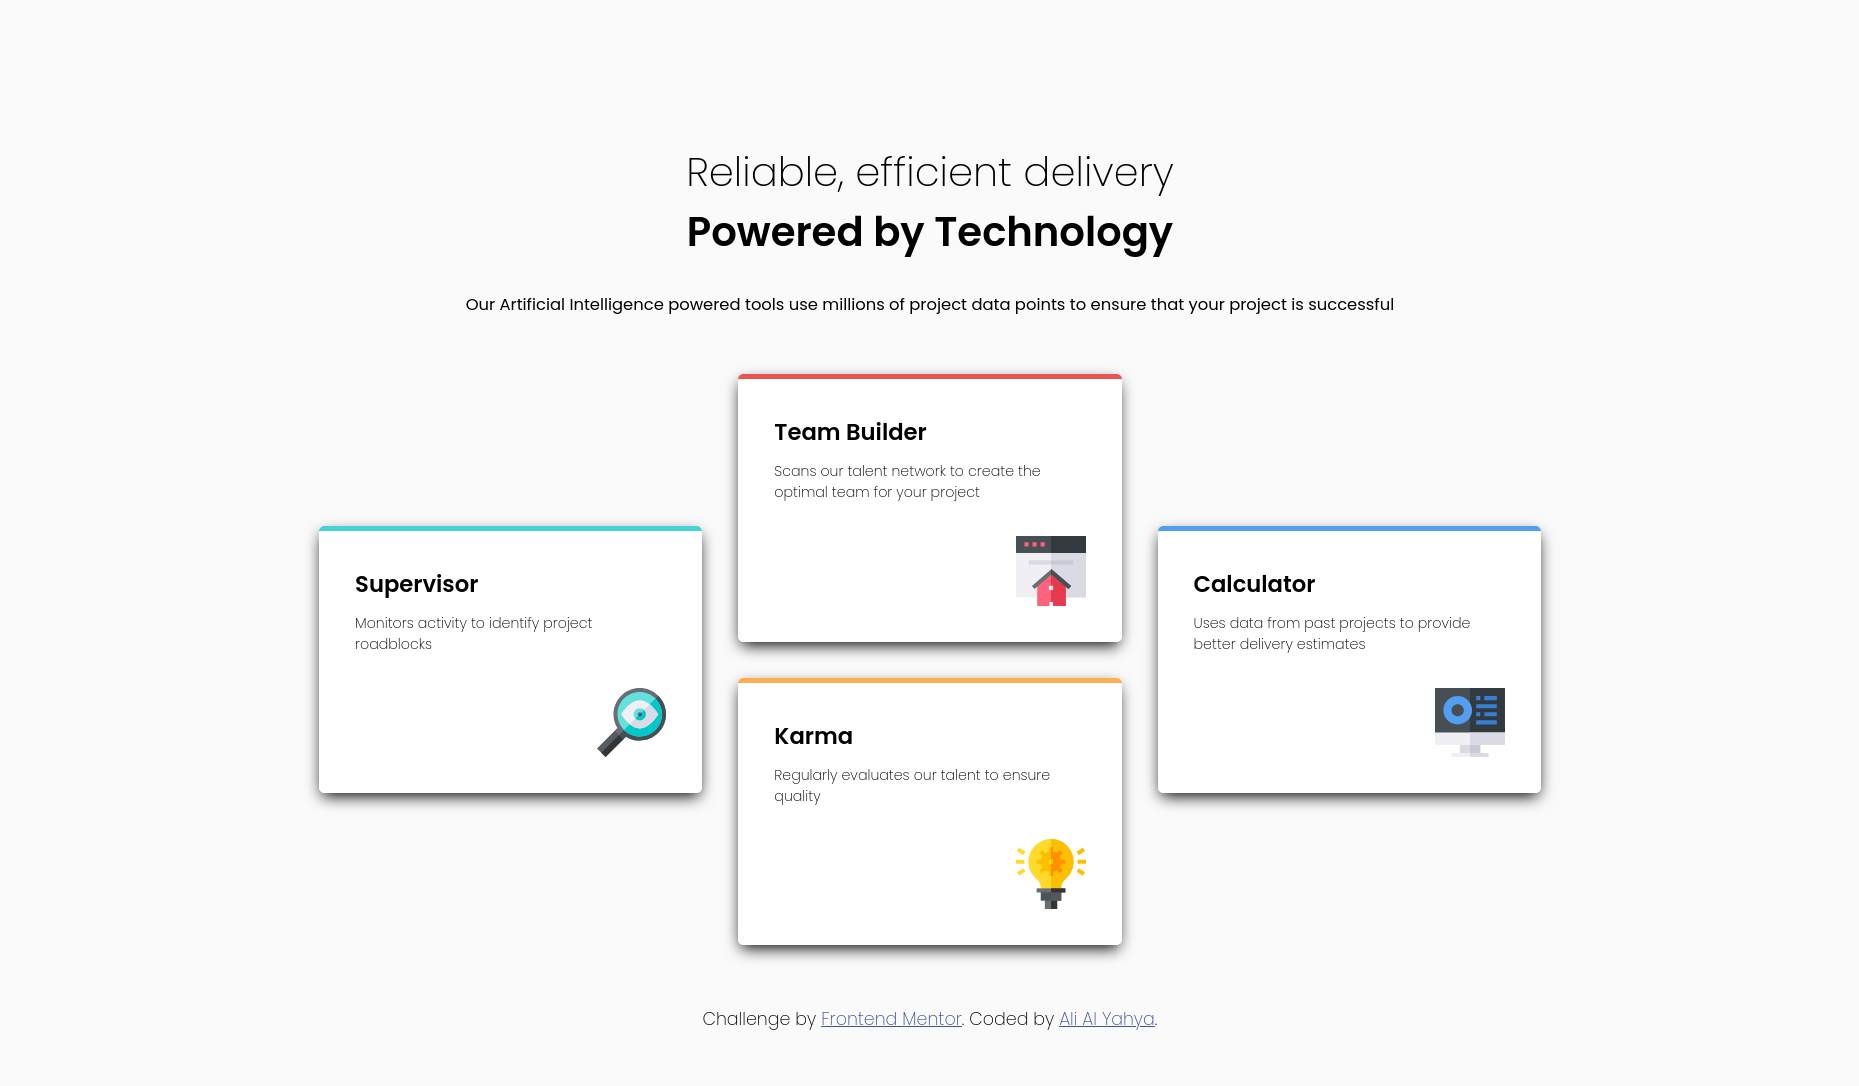
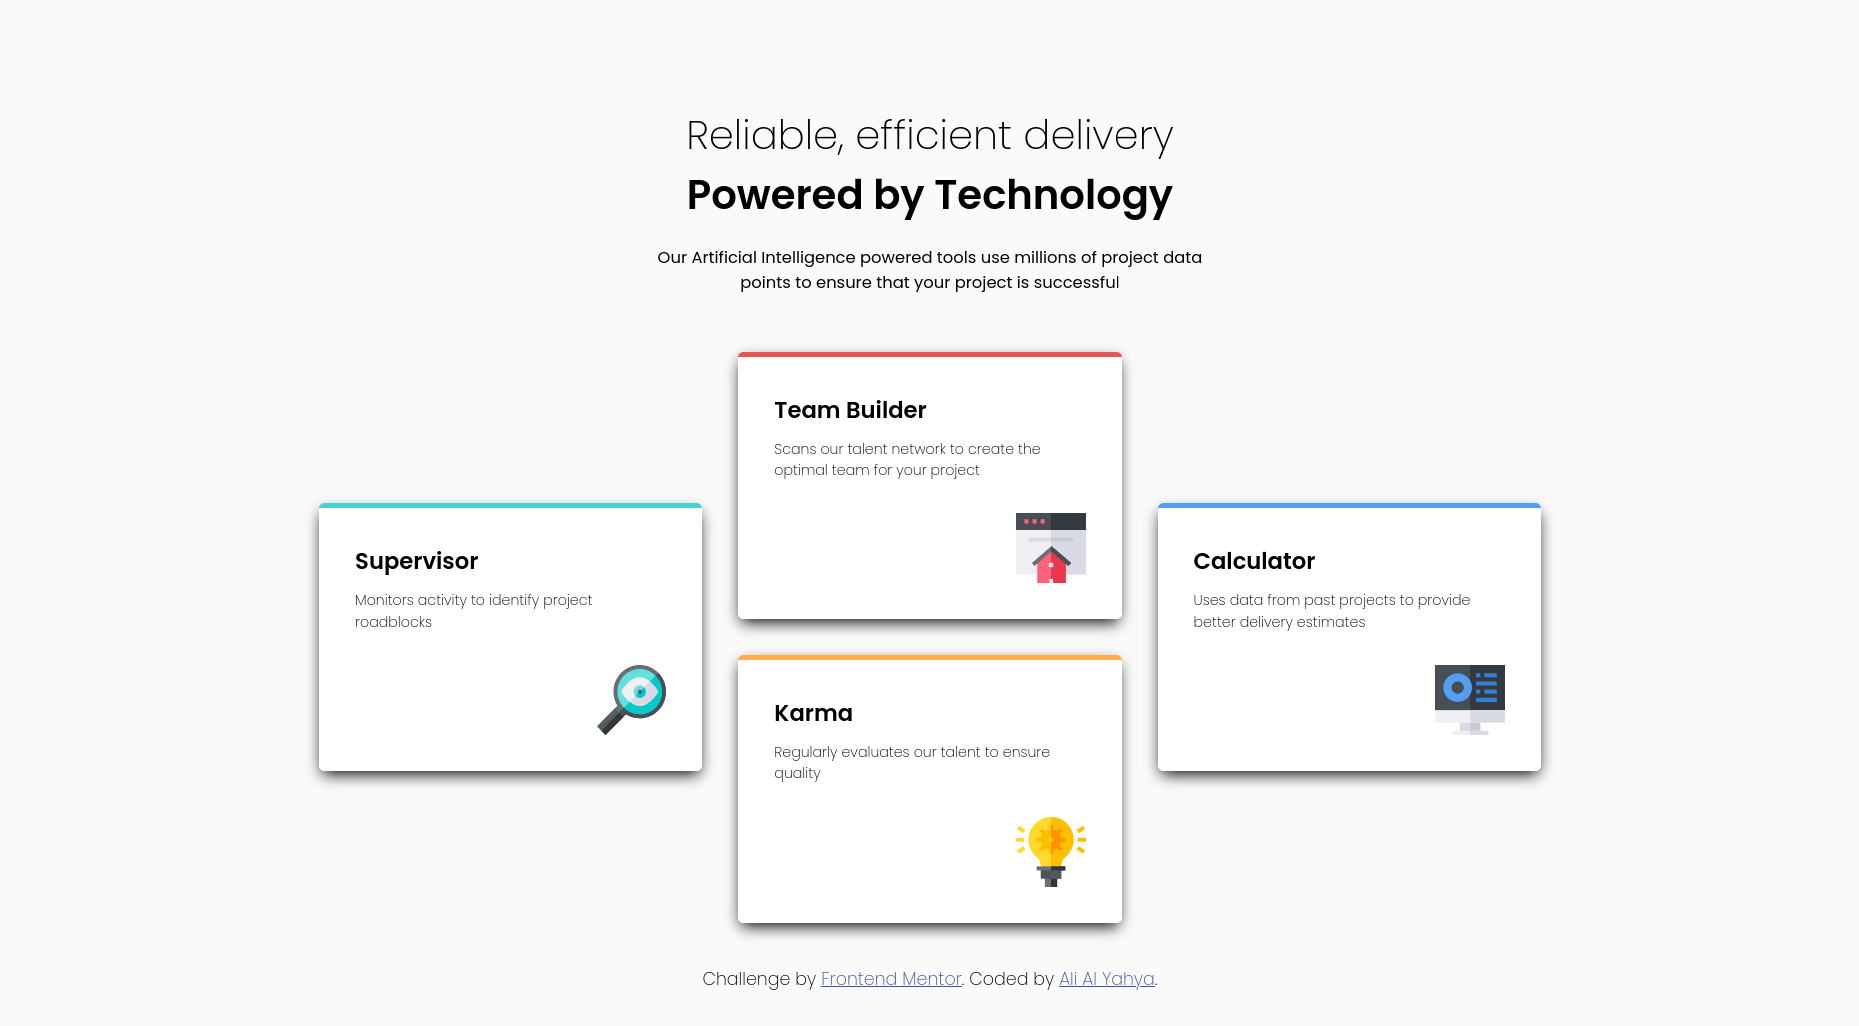
style(scss): adjust header width & related styles
- Modify max-width property for .features-header and associated styling rules
- Add Sass setup section to README.md

diff --git a/styles/styles.scss b/styles/styles.scss
@@ -17,10 +17,10 @@
 	--fw600: 600;
 
 	/* font-sizes */
-	--fs-body: 0.9375rem; 
+	--fs-body: 0.9375rem;
 	--fs-h2: clamp(1.5rem, 1.2183rem + 1.2019vw, 2.3rem);
-	--fs-h3: 1.3rem; 
-	--fs-smaller: 0.8125rem; 
+	--fs-h3: 1.3rem;
+	--fs-smaller: 0.8125rem;
 
 	/* colors */
 
@@ -73,16 +73,17 @@ p {
 /* ----- Compoenents [blocks, exceptions] */
 .wrapper {
 	margin-inline: auto;
-	padding-inline: var(--spacing-xxl);
 	padding-inline: clamp(2.0625rem, -0.7324rem + 11.9249vw, 10rem);
-	padding-block: var(--spacing-3xl);
-	padding-block: clamp(2.2rem, 0.1137rem + 8.9014vw, 8.125rem);
+	padding-block: clamp(2.2rem, 0.1137rem + 8.9014vw, 6rem);
 }
 
 /* --- Features --- */
 
 /* --- Header --- */
 .features-header {
+	text-align: center;
+	max-width: 32rem;
+	margin-inline: auto;
 	text-align: center;
 }
 
@@ -108,8 +109,8 @@ p {
 			"supervisor  teambuilder calculator"
 			"supervisor  karma calculator"
 			".  karma .";
-		}
 	}
+}
 
 .card {
 	background-color: var(--white);
@@ -121,12 +122,12 @@ p {
 	box-shadow: 0 0.375em 1em -0.1875em;
 	/* Subtle lift + perspective rotation on interaction */
 	transition-property: transform;
-	transition-duration: .25s;
+	transition-duration: 0.25s;
 }
 
 .card:is(:hover, :focus) {
 	/* Scale 18%, lift 0.5em, add 3D rotation for depth */
-	transform: scale(118%) translate3d(0em, -.5em, 1em) rotateX(-5deg);
+	transform: scale(118%) translate3d(0em, -0.5em, 1em) rotateX(-5deg);
 }
 
 .card[data-state="cyan"] {
@@ -200,7 +201,7 @@ footer {
 
 .attribution {
 	font-size: clamp(0.6875rem, 0.5775rem + 0.4695vw, 1rem);
-	margin-block-start: clamp(0.8125rem, -0.1338rem + 4.0376vw, 3.5rem);
+	margin-block-start: clamp(0.8125rem, -0.1338rem + 4.0376vw, 2.5rem);
 	text-align: center;
 	position: absolute;
 	left: 50%;

diff --git a/styles/styles.css b/styles/styles.css
@@ -60,15 +60,16 @@ p {
 /* ----- Compoenents [blocks, exceptions] */
 .wrapper {
   margin-inline: auto;
-  padding-inline: var(--spacing-xxl);
   padding-inline: clamp(2.0625rem, -0.7324rem + 11.9249vw, 10rem);
-  padding-block: var(--spacing-3xl);
-  padding-block: clamp(2.2rem, 0.1137rem + 8.9014vw, 8.125rem);
+  padding-block: clamp(2.2rem, 0.1137rem + 8.9014vw, 6rem);
 }
 
 /* --- Features --- */
 /* --- Header --- */
 .features-header {
+  text-align: center;
+  max-width: 32rem;
+  margin-inline: auto;
   text-align: center;
 }
 
@@ -178,7 +179,7 @@ footer {
 
 .attribution {
   font-size: clamp(0.6875rem, 0.5775rem + 0.4695vw, 1rem);
-  margin-block-start: clamp(0.8125rem, -0.1338rem + 4.0376vw, 3.5rem);
+  margin-block-start: clamp(0.8125rem, -0.1338rem + 4.0376vw, 2.5rem);
   text-align: center;
   position: absolute;
   left: 50%;

diff --git a/README.md b/README.md
@@ -12,6 +12,7 @@ This is a solution to the [Four card feature section challenge on Frontend Mento
   - [Links](#links)
 - [My process](#my-process)
   - [Built with](#built-with)
+  - [Set up](#set-up)
   - [What I learned](#what-i-learned)
     - [HTML](#leanred--html)
     - [CSS](#learned--css)
@@ -48,6 +49,23 @@ Users should be able to:
 - CSS custom properties
 - CSS Grid
 - Mobile-first workflow
+- SASS
+
+### Set up
+
+I used SASS as a preprocessor for my CSS.
+
+SASS set up:
+- Added the SASS compiler locally to the project using npm
+- Compiled SASS into CSS on file save using npx
+
+```bash
+npm install sass --save-dev
+
+npx sass --watch <path-to-scss-file> <path-to-compiled-css-file>
+```
+
+
 
 ### What I learned
 
